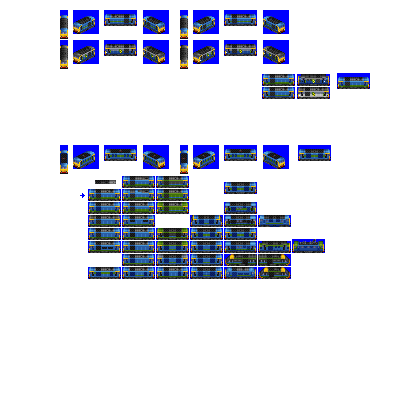
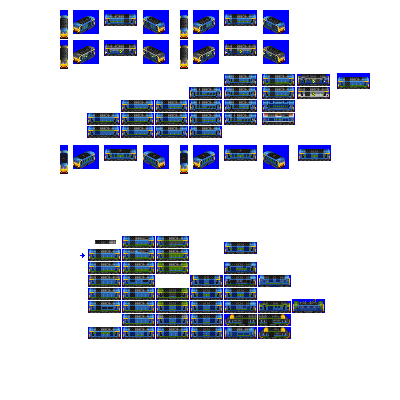
Change: add Stentor gen 5 heavy freight engine

Changed region(s): [[0.21, 0.42, 0.81, 0.87], [0.21, 0.18, 0.75, 0.36]]

diff --git a/src/vehicles/stentor.py b/src/vehicles/stentor.py
@@ -4,11 +4,11 @@ from train import EngineConsist, DieselEngineUnit
 def main(roster_id):
     consist = EngineConsist(
         roster_id=roster_id,
-        id="tug",
-        base_numeric_id=5070,
-        name="Tug",
+        id="stentor",
+        base_numeric_id=5380,
+        name="Stentor",
         role="heavy_freight",
-        role_child_branch_num=-2,  # Joker eh
+        role_child_branch_num=-3,  # Joker eh
         power=4050,  # 750hp steps Vanguard -> Grid -> Cheddar Valley
         # dibble for game balance, assume super-slip control
         tractive_effort_coefficient=0.4,
@@ -22,7 +22,7 @@ def main(roster_id):
 
     consist.add_unit(
         type=DieselEngineUnit,
-        weight=125,
+        weight=128,
         vehicle_length=8,
         effect_offsets=[(1, 0)],
         spriterow_num=0,

diff --git a/src/rosters/pony.py b/src/rosters/pony.py
@@ -103,6 +103,7 @@ from vehicles import slug
 from vehicles import snapper
 from vehicles import snowplough_pony_gen_2
 from vehicles import spinner
+from vehicles import stentor
 from vehicles import stoat
 from vehicles import streamer
 from vehicles import strongbow
@@ -373,6 +374,7 @@ def main(disabled=False):
             defiant,
             quietus,
             cheddar_valley,
+            stentor,
             highlander,
             toaster,
             flindermouse,
